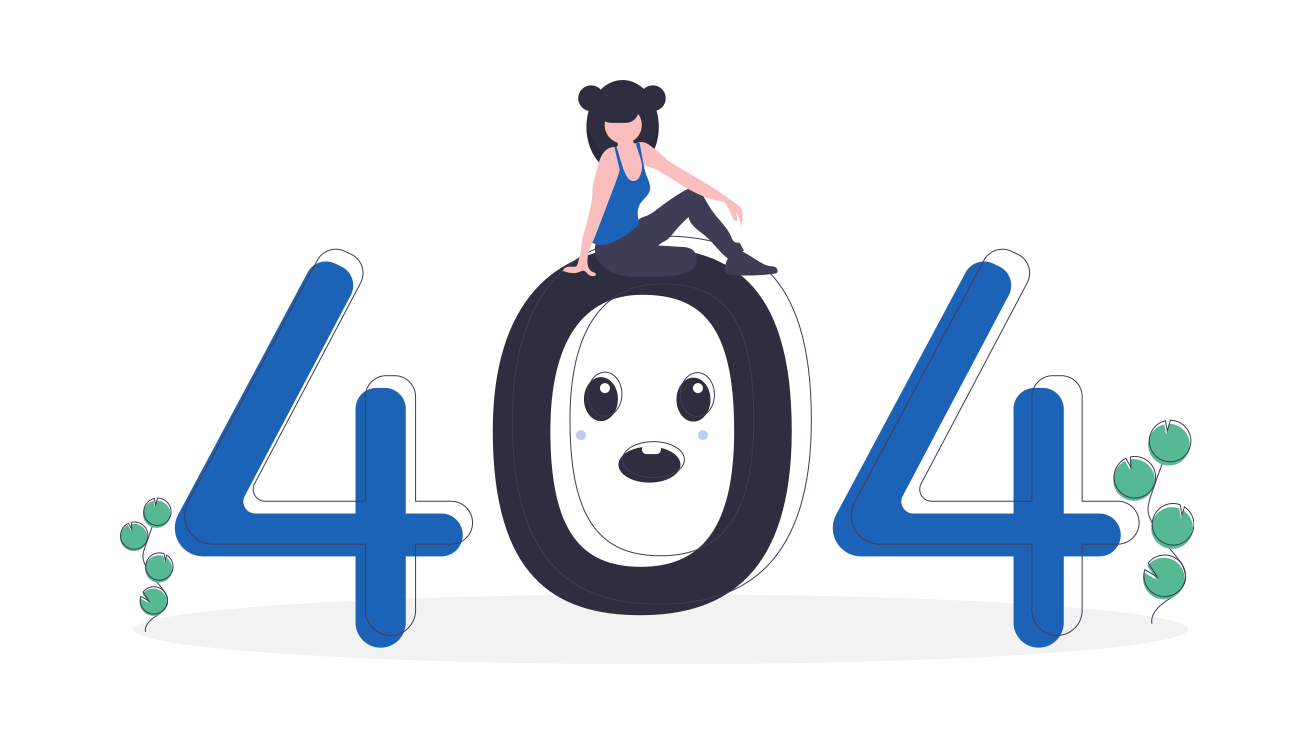
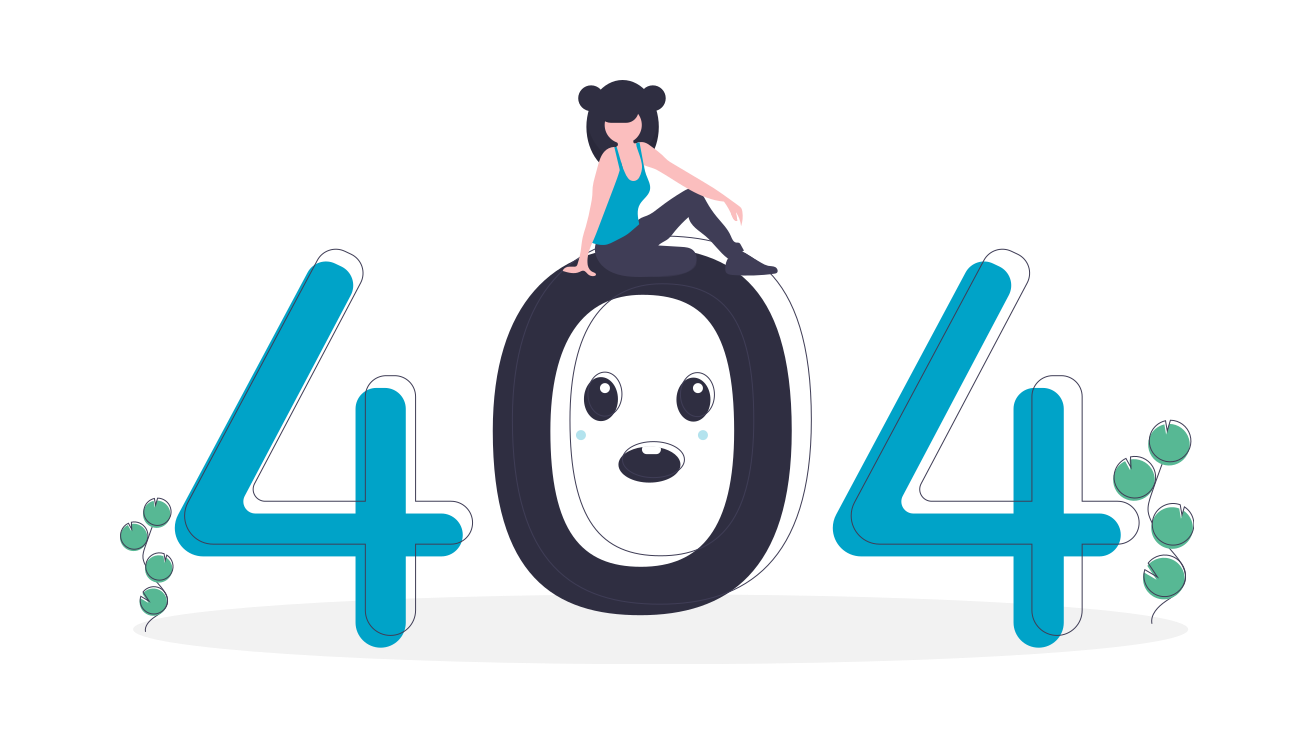
added notFound and login route

Changed region(s): [[0.624, 0.3401, 0.8737, 0.8656], [0.1248, 0.3401, 0.3744, 0.8656], [0.4368, 0.1855, 0.4992, 0.3401]]

diff --git a/src/Pages/Login/Login/Login.js b/src/Pages/Login/Login/Login.js
@@ -61,7 +61,7 @@ const Login = () => {
                             <div>
                                 <h2
                                     className="mb-2 fw-bold"
-                                    style={{ color: "#1c63b8" }}
+                                    style={{ color: "#00a3c8" }}
                                 >
                                     Create an Account
                                 </h2>
@@ -119,7 +119,7 @@ const Login = () => {
                                         >
                                             <Form.Check
                                                 // onClick={toggleLogIn}
-                                                style={{ color: "#1c63b8" }}
+                                                style={{ color: "#00a3c8" }}
                                                 type="checkbox"
                                                 label="Already register"
                                             />

diff --git a/src/Pages/NotFound/NotFound.js b/src/Pages/NotFound/NotFound.js
@@ -14,7 +14,7 @@ const NotFound = () => {
                 <img src={img} className='w-50 p-5 notFound-img' alt="" />
             </div>
             <Link to="/home">
-                <button className="my-btn">Go to Home</button>
+                <button className="home-button">Go to Home</button>
             </Link>
         </div>
         </div>

diff --git a/src/Pages/NotFound/NotFound.css b/src/Pages/NotFound/NotFound.css
@@ -1,5 +1,5 @@
 .text{
-    color: #1c63b8;
+    color: #00a3c8;
 }
 
 @media only screen and (max-width: 767px) {
